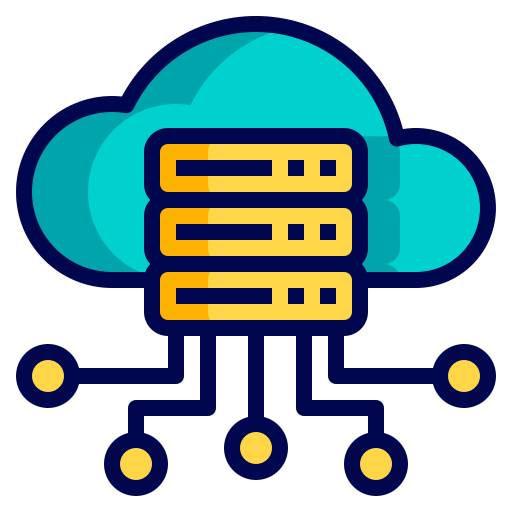
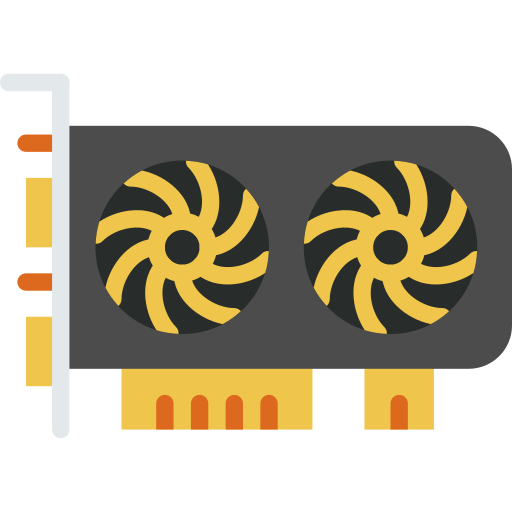
add web page

diff --git a/docs/index.html b/docs/index.html
@@ -3,10 +3,10 @@
 <head>
   <meta charset="utf-8">
   <meta name="description"
-        content="A local software and cloud service system for real-scene reconstruction.">
-  <meta name="keywords" content="Cloud Services, Real-Scene Reconstruction">
+        content="GPU-Accelerated Least-Square Matching Refiner for Epipolar Image Pairs.">
+  <meta name="keywords" content="Least-Squares Matching, GPU, CUDA, Photogrammetry, Epipolar">
   <meta name="viewport" content="width=device-width, initial-scale=1">
-  <title>Informative Scene-Reconstruction App</title>
+  <title>G-LSMEI</title>
 
   <!-- Global site tag (gtag.js) - Google Analytics -->
   <script async src="https://www.googletagmanager.com/gtag/js?id=G-PYVRSFMDRL"></script>
@@ -63,7 +63,10 @@
           More Work
         </a>
         <div class="navbar-dropdown">
-          <a class="navbar-item" href="https://donaldtrump-coder.github.io/FastViewGen/" target="_blank">
+          <a class="navbar-item" href="https://donaldtrump-coder.github.io/Informative-Scene-Reconstruction-App/" target="_blank" style="font-size: 0.775rem;">
+            Scene Reconstructor with Guidance Agent
+          </a>
+            <a class="navbar-item" href="https://donaldtrump-coder.github.io/FastViewGen/" target="_blank">
             FastViewGener
           </a>
           <a class="navbar-item" href="https://donaldtrump-coder.github.io/mapswithdrone" target="_blank">
@@ -82,10 +85,28 @@
     <div class="container is-max-desktop">
       <div class="columns is-centered">
         <div class="column has-text-centered">
-          <h1 class="title is-1 publication-title"><img src="static/images/project.png" style="height: 0.7em; vertical-align: middle;"/> Informative Scene-Reconstruction App</h1>
-          <h2 class="title is-3">
-            <em>Scene Reconstructor with Guidance Agent V0.0.2</em>
-          </h2>
+          <h1 class="title is-1 publication-title"><img src="static/images/project.png" style="height: 0.7em; vertical-align: middle;"/> G-LSMEI: GPU-Accelerated Least-Square Matching Refiner for Epipolar Image Pairs</h1>
+
+          <div style="margin-bottom: 0.5em;">
+            <a href="https://github.com/DonaldTrump-coder/G-LSMEI/" target="_blank">
+                <img src="https://img.shields.io/github/stars/DonaldTrump-coder/G-LSMEI?style=social" alt="Stars">
+            </a>
+            <a href="https://github.com/DonaldTrump-coder/G-LSMEI/" target="_blank">
+                <img src="https://img.shields.io/github/forks/DonaldTrump-coder/G-LSMEI?style=social" alt="Forks">
+            </a>
+            <a href="https://pypi.org/project/glsmei/" target="_blank">
+                <img src="https://img.shields.io/pypi/v/glsmei?color=blue" alt="PyPI">
+            </a>
+            <a href="https://donaldtrump-coder.github.io/G-LSMEI/" target="_blank">
+                <img src="https://img.shields.io/badge/Project_Page-G--LSMEI-brightgreen" alt="Page">
+            </a>
+            <a href="http://www.apache.org/licenses/" target="_blank">
+                <img src="https://img.shields.io/badge/License-Apache_2.0-blue.svg?style=flat" alt="License">
+            </a>
+            <img src="https://img.shields.io/github/last-commit/DonaldTrump-coder/G-LSMEI?color=green" alt="Last Commit">
+            <img src="https://img.shields.io/badge/platform-Windows%2010%20%7C%20Windows%2011-lightgrey" alt="Platform">
+          </div>
+
           <div class="is-size-5 publication-authors">
             <span class="author-block">
               <a href="https://donaldtrump-coder.github.io/" target="_blank">
@@ -93,18 +114,17 @@
             </a>,
             </span>
             <span class="author-block">
-              <span>
-               Jingran Zhang
-            </span>,
-            </span>
-            <span class="author-block">
-              <span>Siyuan Zou</span>
+              <a href="https://github.com/Jeiluo" target="_blank">
+                Jiahao Zhou
+            </a>
             </span>
           </div>
 
           <div class="is-size-5 publication-authors">
             <span class="author-block">
-                <a href="https://en.csu.edu.cn/" target="_blank">
+                <span><strong>Acknowledgements:</strong></span>
+                Thanks to the guidance of <a href="https://faculty.csu.edu.cn/zhangyunsheng1/zh_CN/index.htm" target="_blank">Yunsheng Zhang</a> from
+                <a href="https://www.csu.edu.cn/" target="_blank">
                     Central South University
                 </a>
             </span>
@@ -112,9 +132,9 @@
 
           <div class="column has-text-centered">
             <div class="publication-links">
-              <!-- Code Link. -->
+
               <span class="link-block">
-                <a href="https://github.com/DonaldTrump-coder/Informative-Scene-Reconstruction-App"
+                <a href="https://github.com/DonaldTrump-coder/G-LSMEI"
                    class="external-link button is-normal is-rounded is-dark" target="_blank">
                   <span class="icon">
                       <i class="fab fa-github"></i>
@@ -122,14 +142,14 @@
                   <span>Code</span>
                   </a>
               </span>
-              <!-- Video Link. -->
+
               <span class="link-block">
-                <a href="https://www.youtube.com/watch?v=epEAVYEmF5M"
+                <a href="https://pypi.org/project/glsmei/"
                    class="external-link button is-normal is-rounded is-dark" target="_blank">
                   <span class="icon">
-                      <i class="fas fa-video"></i>
+                      <i class="fab fa-python"></i>
                   </span>
-                  <span>Video</span>
+                  <span>Package</span>
                   </a>
                 </span>
             </div>
@@ -142,26 +162,76 @@
 </section>
 
 <section class="hero teaser">
-  <div class="container is-max-desktop">
-    <div class="columns is-centered has-text-centered">
-        <h2 class="title is-3">Video (in Simplified Chinese)</h2>
+    <div class="container is-max-desktop">
+        <div class="columns is-centered has-text-centered">
+            <figure>
+            <table style="margin: 0 auto; border-collapse: collapse; border: 2px solid #ccc; width: 70%;">
+            <tr>
+                <th style="text-align: center; border: 1px solid #ccc; padding: 0.1em;">Left Image</th>
+                <th style="text-align: center; border: 1px solid #ccc; padding: 0.1em;">Right Image</th>
+            </tr>
+            <tr>
+                <td style="text-align: center; border: 1px solid #ccc; padding: 0.3em;">
+                <img src="./images/left_marked.jpg" style="width: 90%;">
+                </td>
+                <td style="text-align: center; border: 1px solid #ccc; padding: 0.3em;">
+                <img src="./images/right_marked.jpg" style="width: 90%;">
+                </td>
+            </tr>
+            </table>
+            <figcaption style="text-align: center;">
+            Sub-pixel Matching Results of an Epipolar Image Pair.
+            </figcaption>
+            </figure>
+        </div>
+        <div class="columns is-centered has-text-centered" style="padding-top: 1.5em;">
+            <figure>
+                <table style="margin: 0 auto; border-collapse: collapse; border: 2px solid #ccc; width: 50%;">
+                <tr>
+                <th style="text-align: center; border: 1px solid #ccc; padding: 0.6em;">CPU</th>
+                <th style="text-align: center; border: 1px solid #ccc; padding: 0.6em;">GPU</th>
+                </tr>
+                <tr>
+                <td style="text-align: center; border: 1px solid #ccc; padding: 0.6em;">332.27 sec</td>
+                <td style="text-align: center; border: 1px solid #ccc; padding: 0.6em;">0.621 sec</td>
+                </tr>
+            </table>
+            <figcaption style="text-align: center;">
+            Batch computation time comparison between CPU and GPU implementations.
+            </figcaption>
+            </figure>
+        </div>
+        <div>
+            <p style="text-align: center;">
+                <strong>Efficiency improved by 500+ times in our GPU implementation!</strong>
+            </p>
+        </div>
     </div>
-    <div>
-    <iframe width="580" height="315" src="https://www.youtube.com/embed/epEAVYEmF5M" title="Scene Reconstructor with Guidance Agent V0.0.2" frameborder="0" allow="accelerometer; autoplay; clipboard-write; encrypted-media; gyroscope; picture-in-picture; web-share" referrerpolicy="strict-origin-when-cross-origin" allowfullscreen></iframe>
-    </div>
-  </div>
 </section>
 
-<section class="section">
+<section class="section" style="padding: 2.2em 0;">
   <div class="container is-max-desktop">
     <div class="columns is-centered has-text-centered">
-      <div class="column is-four-fifths">
-        <h2 class="title is-3">General Introduction</h2>
-          <p>
-            A Python-based local software and cloud service system that integrates 3D functionalities including <strong>sparse reconstruction</strong>, <strong>point cloud regions annotation</strong>, <strong>3D Gaussian Splatting (3DGS) real-scene model construction <em>on-cloud</em></strong>, <strong>real-scene rendering <em>on-cloud</em></strong>, and <strong>LLM-agent guidance</strong>. The system can support applications in tourism and disaster overview, and currently supports fast deployment on both Local (Windows 11) and Server (Linux) environments.
-          </p>
-      </div>
+        <div class="column is-four-fifths">
+        <h2 class="title is-3">About</h2>
+    <p>
+        A project of the sub-pixel <strong>Least-Square Matching Refining Algorithm</strong> for <strong>Epipolar-Rectified Stereo Image Pairs</strong> in window-size areas. The classic algorithm is proposed by Ackermann in
+        <a href="https://doi.org/10.1111/j.1477-9730.1984.tb00505.x" target="_blank">
+            <em>
+                Digital Image Correlation: Performance and Potential Application in Photogrammetry
+            </em>
+        </a>
+        (1984), where the correspondence search reduces to a one-dimensional problem along epipolar lines, enabling both fast convergence and high accuracy.
+    </p><br>
+    <p>
+    We provide the source code in <strong>C++</strong> and a <strong>Python API</strong> library built upon it.
+    A PyQt Demo Application and the CUDA-based GPU-accelerated version are also provided.
+    </p>
+    <p>
+    Up to now we have successfully tested the C++ and Python built from source code on <em>Windows 10</em> and <em>Windows 11</em>.
+    </p>
     </div>
+  </div>
   </div>
 </section>
 
@@ -169,11 +239,23 @@
   <div class="container is-max-desktop">
     <div class="columns is-centered has-text-centered">
       <div class="column is-four-fifths">
-        <h2 class="title is-3">Structure</h2>
+        <h2 class="title is-3">Structures</h2>
           <p>
             <figure>
-            <img src="static/images/structure.png" alt="Overview" style="width: 60%;">
-            <figcaption>Overview of our System Structure.</figcaption>
+            <img src="./images/Environments.png" style="width: 45%;">
+            <figcaption>Environments of our source code.</figcaption>
+            </figure>
+          </p>
+          <p style="padding:1.2em 0;">
+            <figure>
+            <img src="./images/Structures.png" style="width: 65%;">
+            <figcaption>Structure of our Demo Application.</figcaption>
+            </figure>
+          </p>
+          <p style="padding:1.2em 0;">
+            <figure>
+            <img src="./images/cudastream.png" style="width: 95%;">
+            <figcaption>Stream of the CUDA Executions.</figcaption>
             </figure>
           </p>
       </div>
@@ -181,35 +263,16 @@
   </div>
 </section>
 
-<section class="section">
-  <div class="container is-max-desktop">
-    <div class="columns is-centered has-text-centered">
-        <div class="column is-four-fifths">
-        <h2 class="title is-3">Acknowledgements</h2>
-        <div class="content has-text-justified">
-          <p>
-            The third-party libraries used in this system are: <a href="https://www.riverbankcomputing.com/software/pyqt/", target="_blank">PyQt5</a>, <a href="https://colmap.github.io/pycolmap/index.html" target="_blank">PyColmap</a>, <a href="https://pyopengl.sourceforge.net/" target="_blank">PyOpenGL</a>, <a href="https://pyvista.org/" target="_blank">PyVista</a>, <a href="https://developers.openai.com/api/reference/overview" target="_blank">OpenAI Python</a>, <a href="https://www.open3d.org/" target="_blank">Open3D</a>, <a href="https://github.com/websocket-client/websocket-client" target="_blank">WebSocket-Client</a>, <a href="https://fastapi.tiangolo.com/" target="_blank">FastAPI</a>, <a href="https://uvicorn.dev/" target="_blank">uvicorn</a>, <a href="https://github.com/dranjan/python-plyfile" target="_blank">plyfile</a>, <a href="https://repo-sam.inria.fr/fungraph/3d-gaussian-splatting/" target="_blank">3DGS</a>, <a href="https://multipart.fastapiexpert.com/" target="_blank">Python-Multipart</a>
-          </p>
-        </div>
-        </div>
-    </div>
-  </div>
-</section>
-
-<section class="section" style="padding:0.5em 0;">
+<section class="section" style="padding:2.2em 0;">
   <div class="container is-max-desktop">
     <div class="columns is-centered has-text-centered">
         <div class="column is-four-fifths">
         <h2 class="title is-3">License</h2>
         <div class="content has-text-justified">
           <p style="text-align: center;">
-            This project is released under a <strong>Non-Commercial Research License</strong>.<br>
-            The software is free for academic research and non-commercial use.<br>
-            Commercial use requires a separate license from the authors.<br>
-            See the <a href="https://github.com/DonaldTrump-coder/Informative-Scene-Reconstruction-App/blob/main/LICENSE", target="_blank">LICENSE</a> file for details.<br>
-            For commercial licensing, please contact:<br>
-            <a href="mailto:[email redacted]", target="_blank">[email redacted]</a>
-          </p>
+           This project is licensed under the <strong>Apache License 2.0</strong>.
+           See the <a href="https://github.com/DonaldTrump-coder/G-LSMEI/blob/main/LICENSE" target="_blank">LICENSE</a> file for details.
+           </p>
         </div>
         </div>
     </div>
@@ -218,24 +281,24 @@
 
 <section class="section" id="BibTeX">
   <div class="container is-max-desktop content">
-    <h2 class="title">BibTeX</h2>
+    <h2 class="title">Citation</h2>
     <p>
-        If you find this project useful in your research, please consider citing:
+        If you use our work or our data in your research, please cite:
     </p>
-    <pre><code>@misc{tang2026informative,
-    title = {Informative Scene-Reconstruction App},
-    author = {Haojun Tang and Jingran Zhang and Siyuan Zou},
-    year = {2026},
-    note={GitHub repository},
-    howpublished={https://github.com/DonaldTrump-coder/Informative-Scene-Reconstruction-App}
-    }</code></pre>
+    <pre><code>@misc{Tang2026GLSMEI,
+  title        = {G-LSMEI: GPU-Accelerated Least-Square Matching Refiner for Epipolar Image Pairs},
+  author       = {Haojun Tang and Jiahao Zhou},
+  year         = {2026},
+  howpublished = {\url{https://github.com/DonaldTrump-coder/G-LSMEI}},
+  note         = {Version 1.0.2. Apache License 2.0}
+}</code></pre>
   </div>
 </section>
 
 <footer class="footer">
   <div class="container">
     <div class="content has-text-centered">
-      <a class="icon-link" href="https://github.com/DonaldTrump-coder" class="external-link" disabled>
+      <a class="icon-link" href="https://github.com/DonaldTrump-coder" class="external-link" disabled target="_blank">
         <i class="fab fa-github"></i>
       </a>
     </div>

diff --git a/python/setup.py b/python/setup.py
@@ -1,12 +1,19 @@
 from skbuild import setup
+from pathlib import Path
+
+version_path = Path("package/version.py")
+version = {}
+exec(version_path.read_text(), version)
 
 setup(
-    name="lsmatching",
-    version="0.0.1",
+    name="glsmei",
+    version=version["__version__"],
     cmake_source_dir=".",
     cmake_args=["-G", "Visual Studio 17 2022", "-A", "x64"],
     packages=["lsmatching"],
-    package_dir={"lsmatching": "lsmatching"},
-    package_data={"lsmatching": ["_lsmatching*.pyd", "__init__.py", "*.dll"]},
+    package_dir={"lsmatching": "package"},
+    package_data={"lsmatching": ["_lsmatching*.pyd", "__init__.py", "version.py", "*.dll"]},
     include_package_data=True,
+    long_description=Path("package/README_PyPI.md").read_text(encoding="utf-8"),
+    long_description_content_type="text/markdown",
 )

diff --git a/python/app/app.py b/python/app/app.py
@@ -1,8 +1,6 @@
 from python.app.ui import Matching_ui as UI
 from PyQt5.QtWidgets import QApplication, QSplashScreen, QFileDialog, QMessageBox
 import sys
-from PyQt5.QtGui import QPixmap
-from PyQt5.QtCore import Qt
 from lsmatching import Matching
 import os
 import subprocess

diff --git a/python/package/__init__.py b/python/package/__init__.py
@@ -1,6 +1,7 @@
 from ._lsmatching import Matching as LSMatching
 from ._lsmatching import CorrelationMatch
 import numpy as np
+from .version import __version__
 
 class Matching:
     def __init__(self, left_image_path: str, right_image_path: str):

diff --git a/python/package/version.py b/python/package/version.py
@@ -1,0 +1,1 @@
+__version__ = "1.0.4"